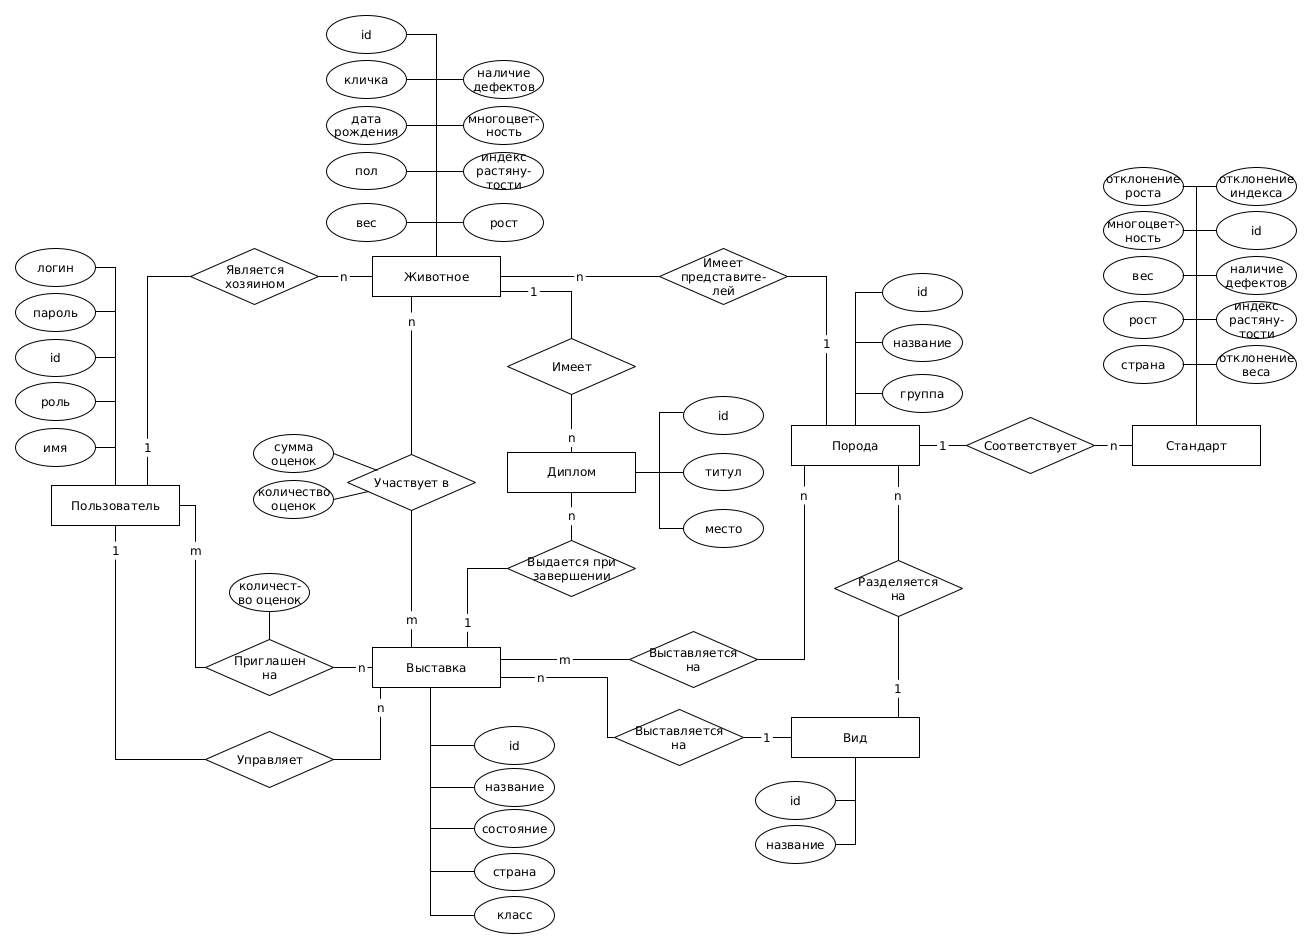
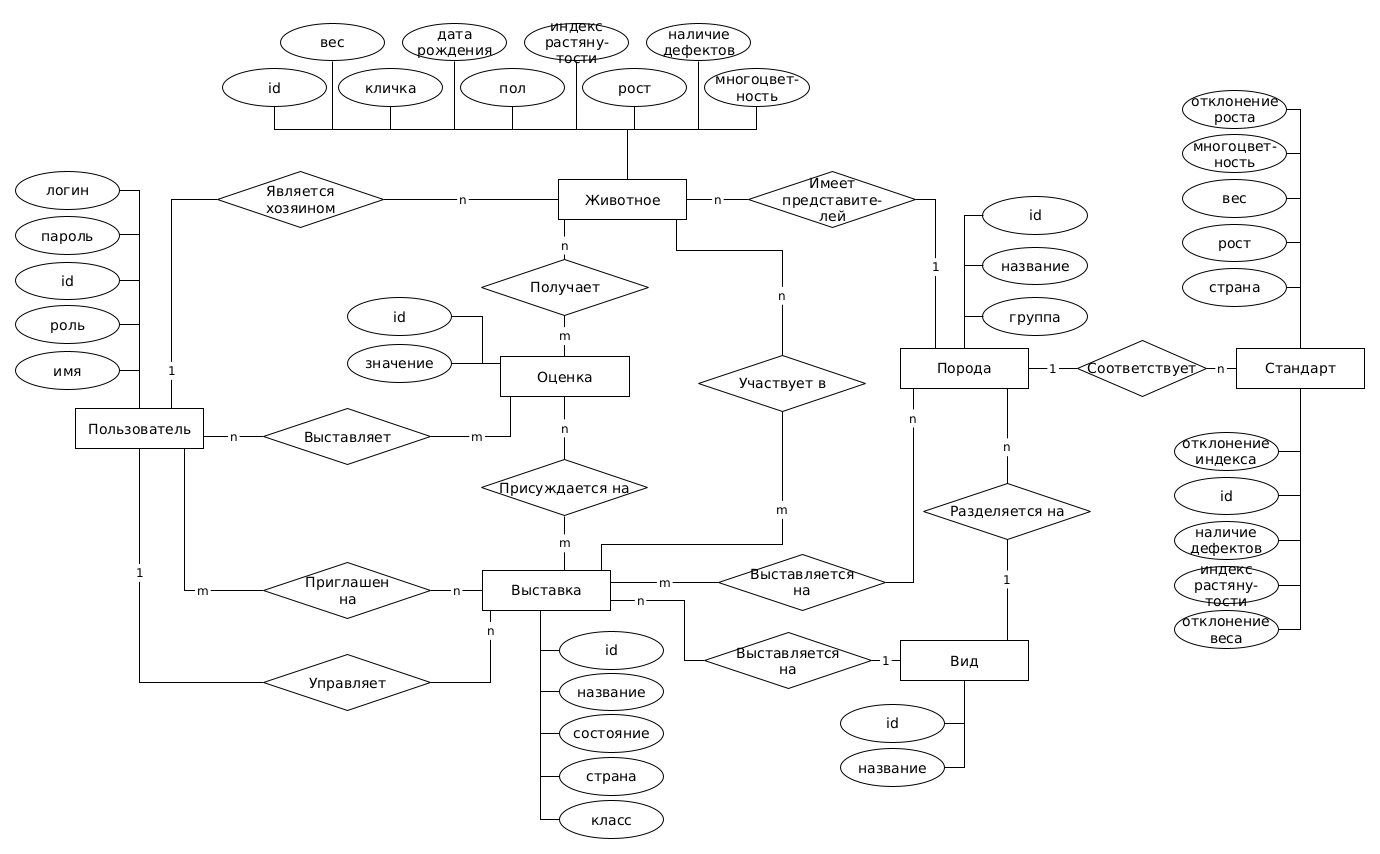
add score entity
delete certificate entity

fix readme

diff --git a/README.md b/README.md
@@ -19,8 +19,6 @@
 |Участник выставки|Животное, записанное на выставку своим заводчиком|
 |Судья|Человек, который после получения специального образования имеет право в зависимости от полученного образования судить животных той или иной породы|
 |Приглашенный (на выставку) судья|Судья, имеющий право оценивать участников отдельной выставки|
-|Титул|Наименование, присуждаемое животному после завершения выставки|
-|Диплом|Документ, вручаемый участнику выставки после ее завершения, содержащий информацию о полученном на выставке титуле|
 |Организатор|Человек, который имеет право создавать, редактировать, запускать и завершать выставки|
 
 ### 4. Краткий анализ аналогичных решений
@@ -204,25 +202,17 @@
 
 Приложение: Web SPA
 
-Технологический стек: Scala (веб с помощью Scala.js)
+Технологический стек: Scala
 
 ### 12. Верхнеуровневое разбиение на компоненты
 
-![components.png](./img_1/components.png)
+![components.png](./img/components.png)
 
 ### 13. UML диаграммы классов
 
 #### Диаграмма классов сущностей БД
 
-![db_entities.png](./img/db_entities.png)
-
-#### Диаграмма классов сущностей системы
-
-![entities.png](./img/entities.png)
-
-#### Диаграмма транспортных сущностей
-
-![trans_entities.png](./img/trans_entities.png)
+![db_er_diagram.png](./img/db_er_diagram.png)
 
 #### Диаграмма классов компонентов бизнес-логики и доступа к данным
 
